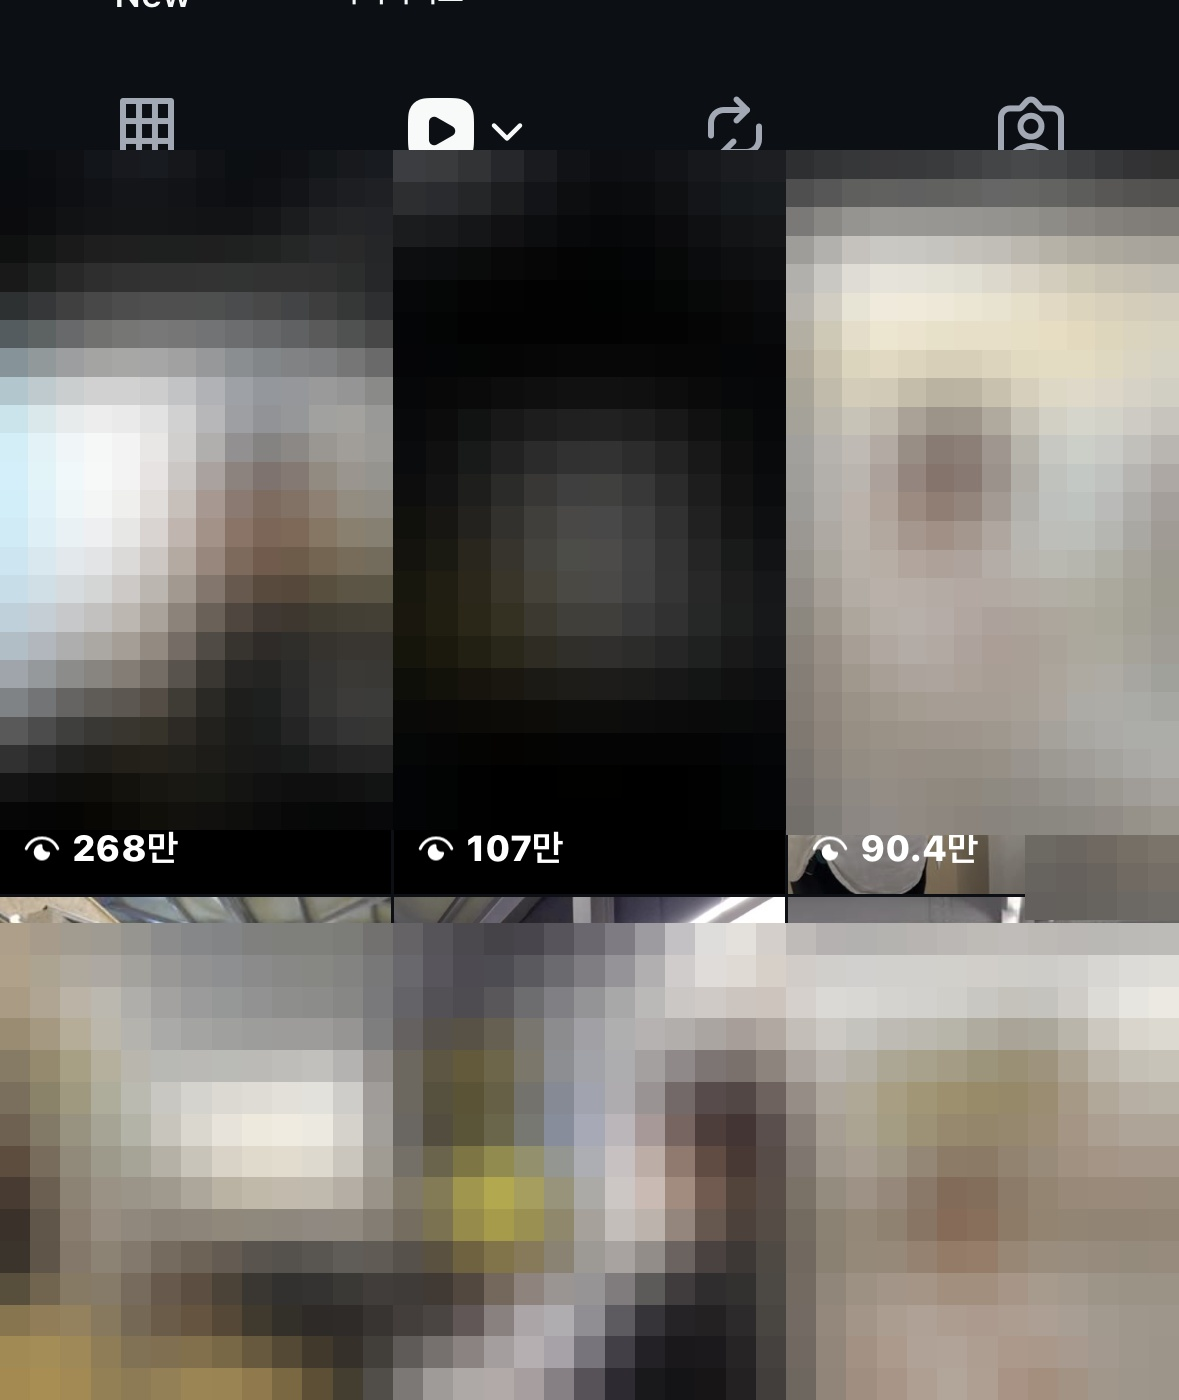
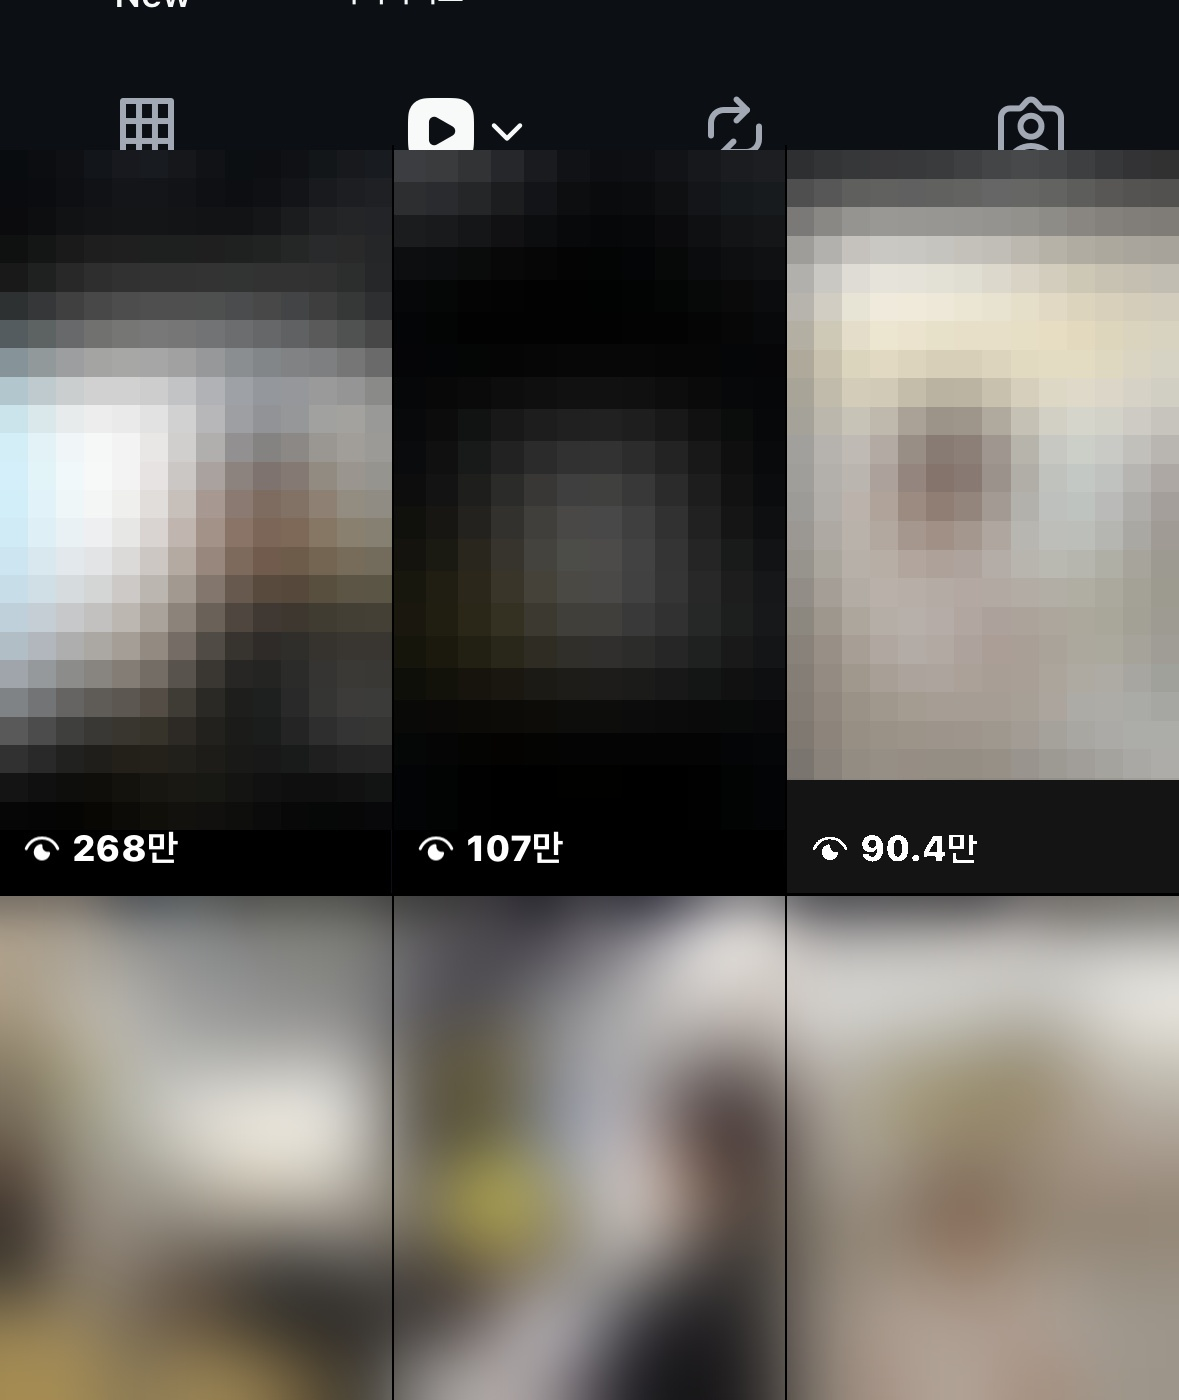
fix: 이미지 모자이크 전면 재작업 (유튜브 비디오ID/영상제목/프로필/인스타 틈새노출 완벽 박멸 및 UI 정돈)

diff --git a/index.html b/index.html
@@ -1066,7 +1066,7 @@
       <!-- 증빙 1 -->
       <div class="proof-card">
         <div class="proof-img-wrap">
-          <img src="proof_newchannel_1500.jpg?v=5" alt="신규 채널 첫 영상 1560회 달성" loading="lazy">
+          <img src="proof_newchannel_1500.jpg?v=6" alt="신규 채널 첫 영상 1560회 달성" loading="lazy">
         </div>
         <div class="proof-content">
           <span class="proof-tag">CASE 01. 신규 채널 런칭</span>
@@ -1081,7 +1081,7 @@
       <!-- 증빙 2 -->
       <div class="proof-card">
         <div class="proof-img-wrap">
-          <img src="proof_youtube_12000.jpg?v=1" alt="게시 3일차 1.2만 회 돌파" loading="lazy">
+          <img src="proof_youtube_12000.jpg?v=6" alt="게시 3일차 1.2만 회 돌파" loading="lazy">
         </div>
         <div class="proof-content">
           <span class="proof-tag">CASE 02. 알고리즘 추천 폭발</span>
@@ -1096,7 +1096,7 @@
       <!-- 증빙 3 -->
       <div class="proof-card">
         <div class="proof-img-wrap">
-          <img src="proof_insta_268m.jpg?v=5" alt="단일 릴스 268만 뷰 돌파" loading="lazy">
+          <img src="proof_insta_268m.jpg?v=6" alt="단일 릴스 268만 뷰 돌파" loading="lazy">
         </div>
         <div class="proof-content">
           <span class="proof-tag">CASE 03. 숏폼 바이럴 시너지</span>
